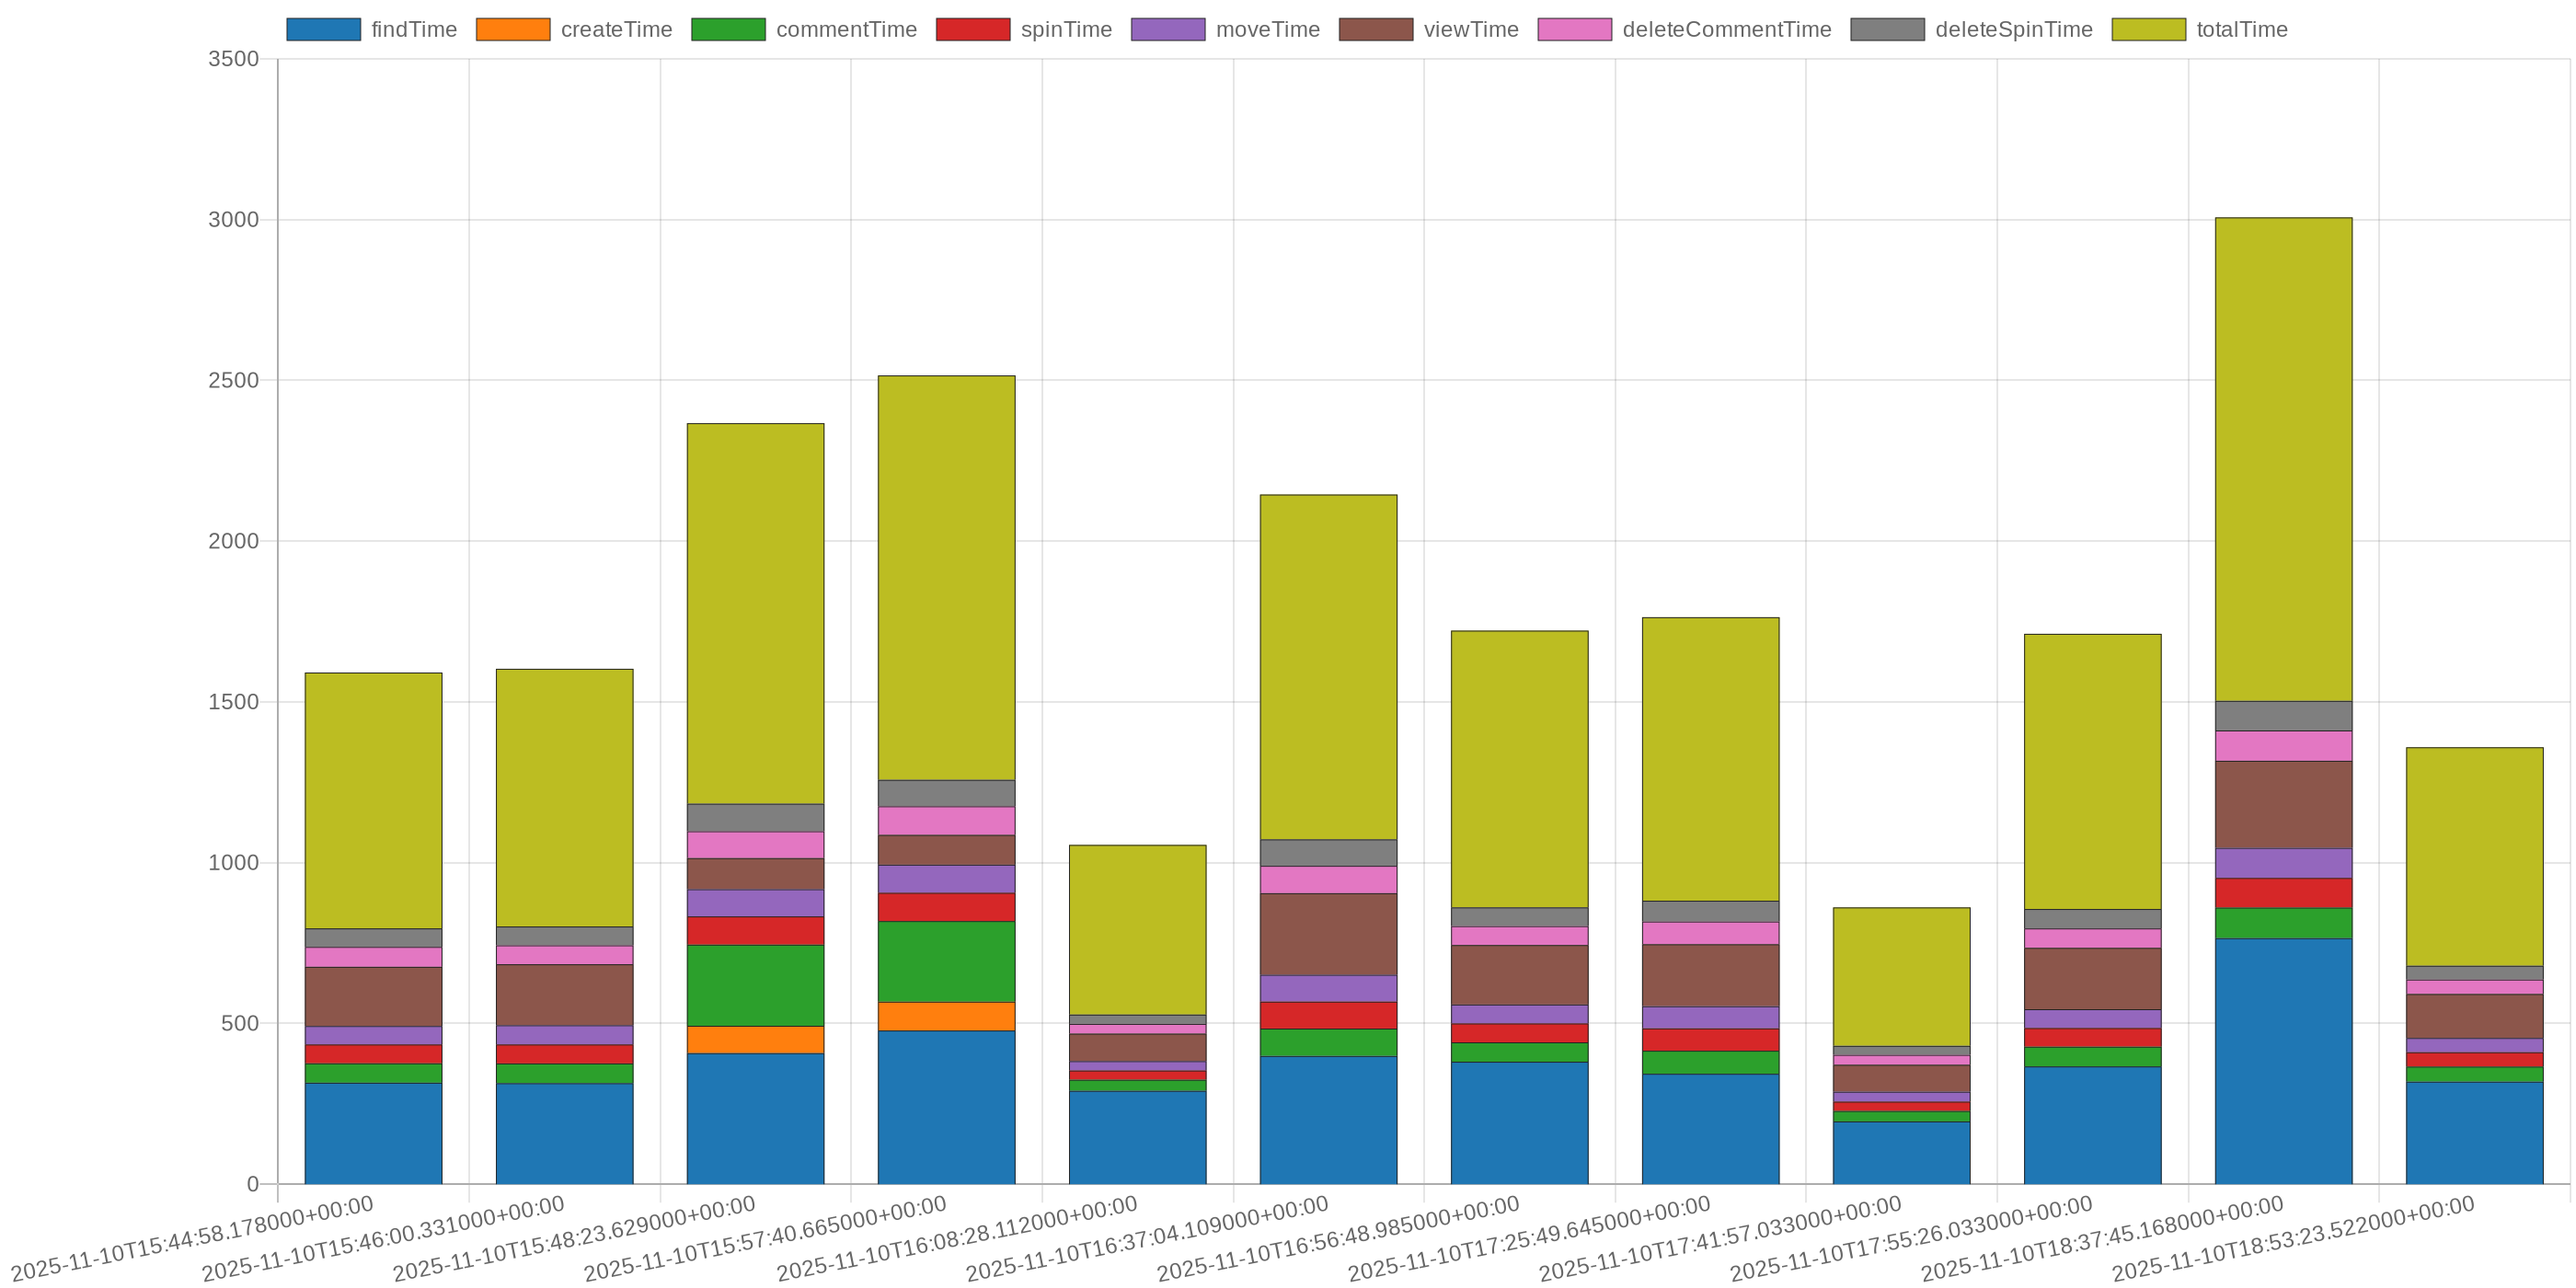
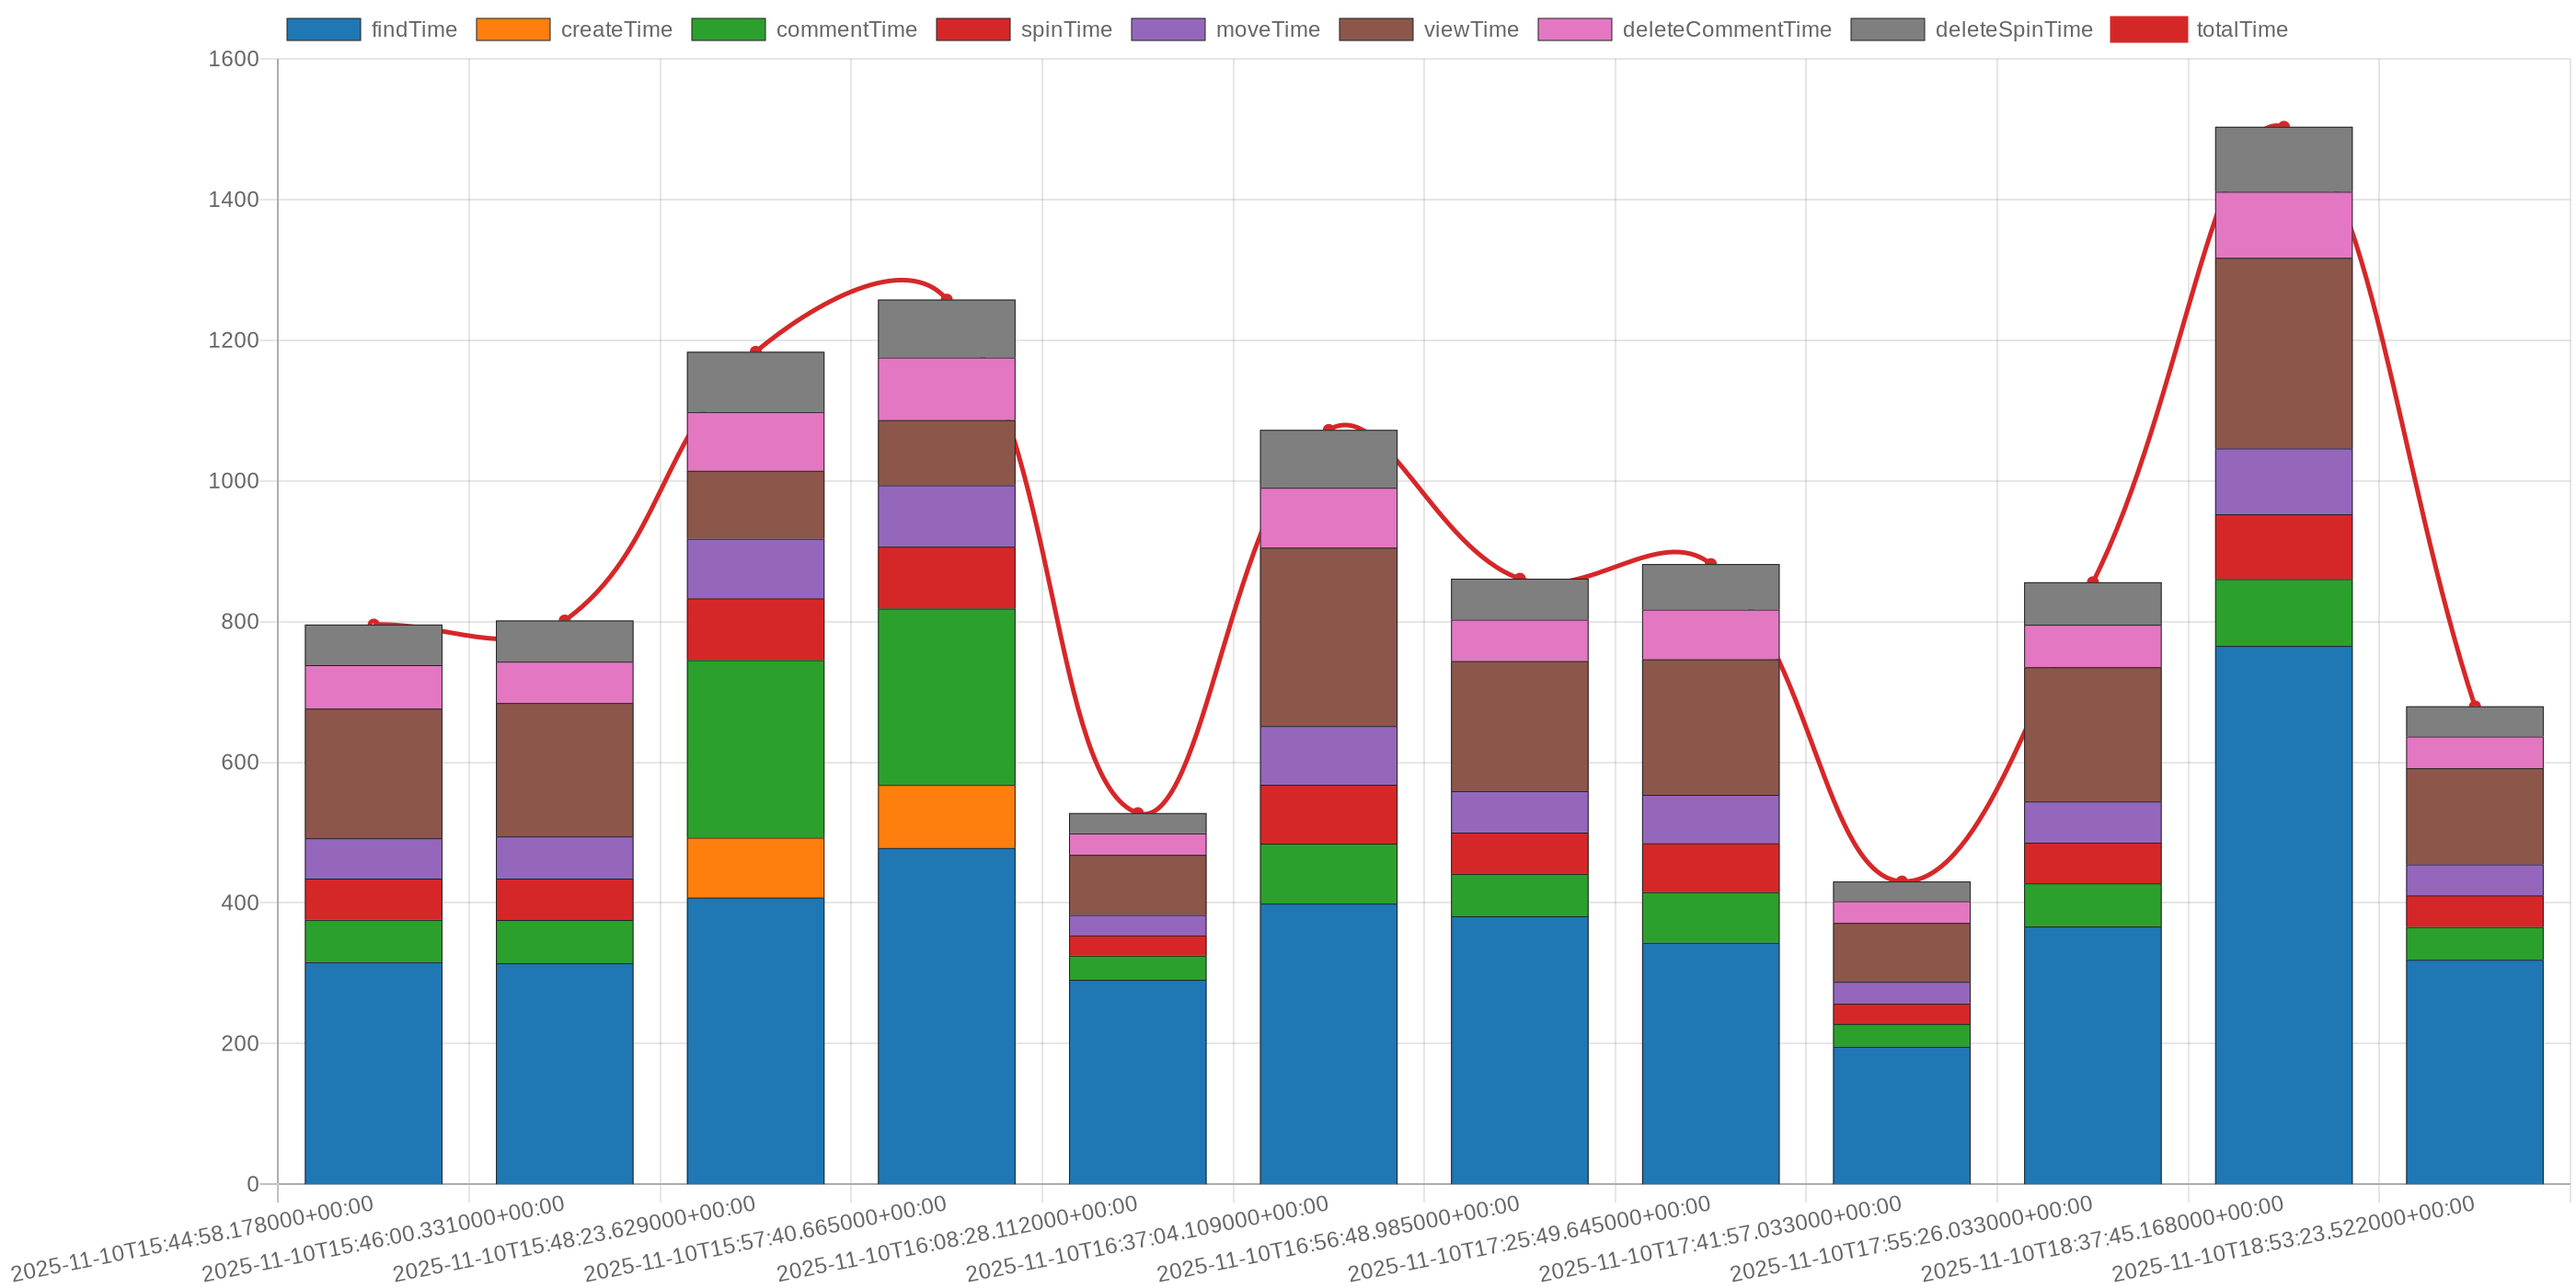
Update generated charts (manual run 19243162888)

Changed region(s): [[0.0932, 0.0921, 0.9943, 0.8907], [0.8079, 0.0, 0.87, 0.0307], [0.0621, 0.1536, 0.1243, 0.1843]]

diff --git a/assets/metrics/stacked-times-quickchart.html b/assets/metrics/stacked-times-quickchart.html
@@ -214,10 +214,12 @@
           1503.47,
           679.46
         ],
-        "backgroundColor": "#bcbd22",
-        "stack": "stack1",
-        "borderWidth": 0.5,
-        "borderColor": "#222"
+        "type": "line",
+        "borderColor": "#d62728",
+        "backgroundColor": "rgba(214,39,40,0.12)",
+        "borderWidth": 2.5,
+        "pointRadius": 2,
+        "fill": false
       }
     ]
   },
@@ -233,8 +235,7 @@
       },
       "tooltip": {
         "mode": "index",
-        "intersect": false,
-        "callbacks": {}
+        "intersect": false
       }
     },
     "scales": {
